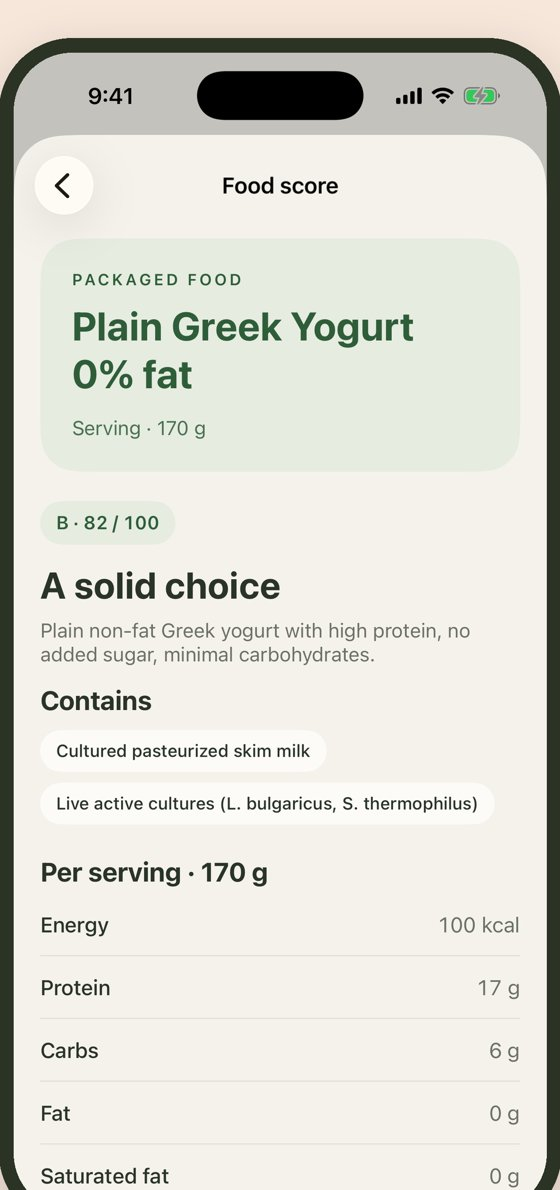
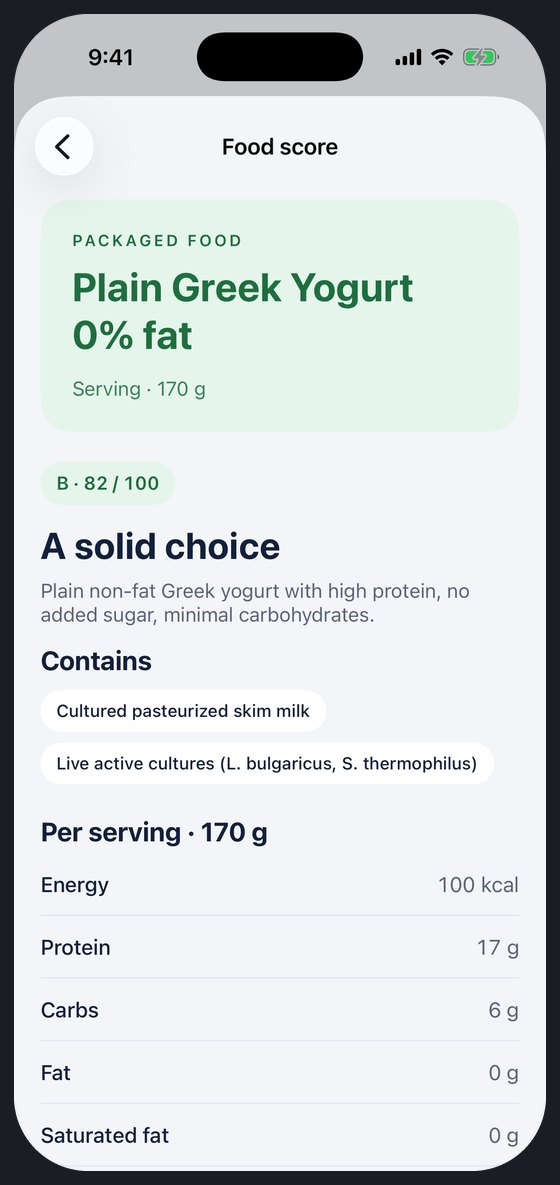
New UI Changes
Changes made:

--> New UI Changes

Changed region(s): [[0.0, 0.0, 1.0, 1.0]]

diff --git a/index.html b/index.html
@@ -91,8 +91,8 @@
         </ul>
       </div>
       <div class="phones" aria-hidden="true">
-        <div class="ph ph-back"><img src="assets/s-feed.jpg" alt="" width="560" height="1217" /></div>
-        <div class="ph ph-front"><img src="assets/s-scan.jpg" alt="" width="560" height="1191" /></div>
+        <div class="ph ph-back"><img src="assets/s-feed.jpg?v=3.2.2" alt="" width="560" height="1218" /></div>
+        <div class="ph ph-front"><img src="assets/s-scan.jpg?v=3.2.2" alt="" width="560" height="1185" /></div>
       </div>
     </div>
   </header>
@@ -117,13 +117,13 @@
         <div class="txt">
           <p class="kicker">Photo logging</p>
           <h3>Point, shoot, done.</h3>
-          <p>The AI spots every item on the plate and gives you calories and macros you can edit item by item.</p>
+          <p>The AI spots every item on the plate, with its weight, calories and macros. Fix any item before you log it.</p>
           <ul class="ticks">
             <li>Works on home cooking, takeaway and restaurant plates</li>
             <li>Voice and text when you can't take a photo</li>
           </ul>
         </div>
-        <div class="shot"><div class="ph"><img src="assets/s-scan.jpg" alt="Meal scan with calories and macros for each item" width="560" height="1191" loading="lazy" /></div></div>
+        <div class="shot"><div class="ph"><img src="assets/s-items.jpg?v=3.2.2" alt="Each item on the plate with its weight, ready to edit" width="560" height="1185" loading="lazy" /></div></div>
       </div>
       <div class="row rev">
         <div class="txt">
@@ -131,15 +131,15 @@
           <h3>Grade a label before you buy.</h3>
           <p>Scan any packaged food and get a score out of 100 with the reasons behind it.</p>
         </div>
-        <div class="shot"><div class="ph"><img src="assets/s-foodscore.jpg" alt="Food score for a Greek yogurt" width="560" height="1191" loading="lazy" /></div></div>
+        <div class="shot"><div class="ph"><img src="assets/s-foodscore.jpg?v=3.2.2" alt="Food score for a Greek yogurt" width="560" height="1185" loading="lazy" /></div></div>
       </div>
       <div class="row">
         <div class="txt">
           <p class="kicker">Better together</p>
           <h3>Eat with friends, log once.</h3>
-          <p>Split a shared meal so everyone's portion is counted. Post your plate, cheer each other on and take on group challenges.</p>
+          <p>Split a shared plate and each friend picks their own portion, logged straight to their diary. Post your plate, cheer each other on and take on group challenges.</p>
         </div>
-        <div class="shot"><div class="ph"><img src="assets/s-split.jpg" alt="Splitting a shared meal between friends" width="560" height="1191" loading="lazy" /></div></div>
+        <div class="shot"><div class="ph"><img src="assets/s-split.jpg?v=3.2.2" alt="Splitting a shared plate with two friends" width="560" height="1185" loading="lazy" /></div></div>
       </div>
 
       <h2 class="more-title">And everything else you need</h2>

diff --git a/home.css b/home.css
@@ -82,7 +82,7 @@ h1 { font-size: 64px; margin: 18px 0; }
 .trust b { color: var(--ink); font-weight: 600; }
 
 .phones { position: relative; height: 560px; }
-.ph { position: absolute; width: 270px; border-radius: 44px; overflow: hidden; box-shadow: 0 30px 80px rgba(0,0,0,.65), 0 0 0 1px rgba(255,255,255,.08); background: #1d2a1f; }
+.ph { position: absolute; width: 270px; border-radius: 44px; overflow: hidden; box-shadow: 0 30px 80px rgba(0,0,0,.65), 0 0 0 1px rgba(255,255,255,.08); background: #1a1d24; }
 .ph-front { right: 150px; top: 0; z-index: 2; }
 .ph-back { right: 0; top: 70px; transform: rotate(4deg); opacity: .9; border-radius: 36px; }
 
